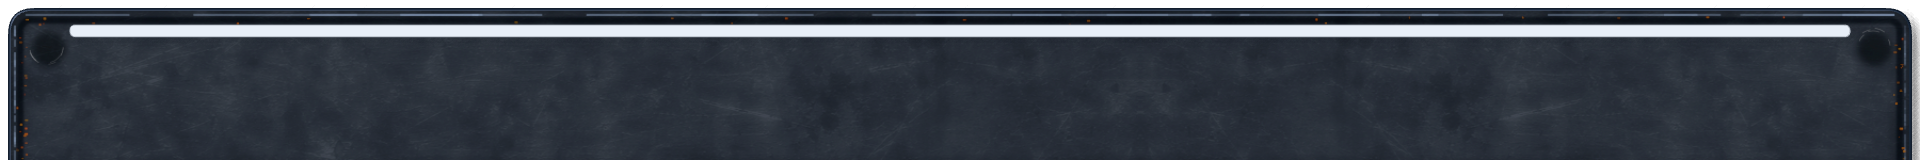
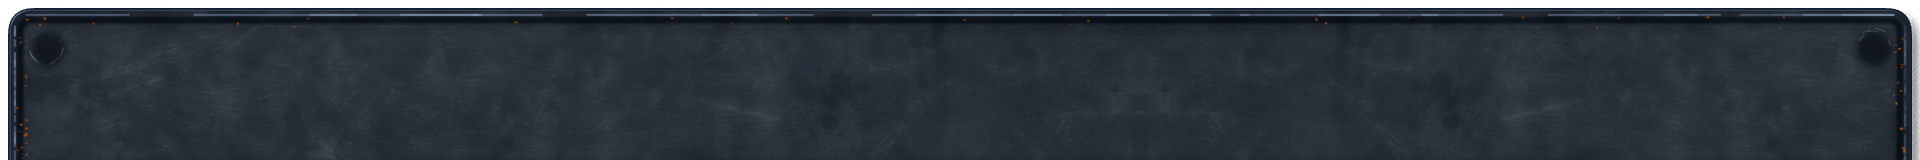
End Turn: stylised silver button drawn in code, gearing on the roller, no rail
The button is drawn by the dock: a flat silver face, four bevel facets lit from the upper left, the
shadow it casts into its black frame, and a dark arrow with a lit edge. It sinks with a narrower bevel
while held and dims while a turn resolves. A cog on the roller's end meshes with a pinion; both turn
three teeth each time the phase rolls over. The desk plate loses its chrome rail (the bottom bar
shares the plate), and the silver button renders are removed.

Changed region(s): [[0.0312, 0.125, 0.9688, 0.25]]

diff --git a/price-of-everything-0.1/tools/button_mockup/cluster.html b/price-of-everything-0.1/tools/button_mockup/cluster.html
@@ -1485,22 +1485,19 @@ function darkMetalPlate() {
 
 /**
  * The bottom bar as a factory control desk: a plate of the top bar's weathered navy steel the bar's full width,
- * rendered at its size so its wear never stretches, with a polished steel rail along its far edge and a screw
+ * rendered at its size so its wear never stretches, with a screw
  * at each end; and the gunmetal collar each round push button sits in, a knurled ring round a dark recess.
  * The plate runs off the bottom of the screen, so only its top corners are rounded on screen.
  */
-const DESK = { W: 1800, H: 150, M: 10, rail: 10, railInset: 26, r: 22 };
+const DESK = { W: 1800, H: 150, M: 10, r: 22 };
 function deskPlate() {
-  const { W, H, M, rail, railInset, r } = DESK, g = new THREE.Group(), pw = W - 2 * M, ph = H - M + 30;
+  const { W, H, M, r } = DESK, g = new THREE.Group(), pw = W - 2 * M, ph = H - M + 30;
   const screws = [{ x: 34, y: 34 }, { x: pw - 34, y: 34 }];
   const face = { icons: [], buttons: [], screws, base: NAVY_STEEL_CANVAS, rub: '120,136,160' };
   const steelSide = new THREE.MeshStandardMaterial({ color: 0x3a4250, metalness: 1, roughness: 0.45, envMap: studioEnv, envMapIntensity: 0.8 });
   const plate = new THREE.Mesh(extrude(rrShape(pw, ph, r), 5, 3, 2.4, 5), [plateMaterial(pw, ph, face), steelSide]);
   plate.castShadow = plate.receiveShadow = true; plate.position.set(W / 2, 0, M + ph / 2); g.add(plate);
   for (const sc of screws) { const m = screw(5); m.position.set(M + sc.x, 8.2, M + sc.y); g.add(m); }
-  const chrome = new THREE.MeshStandardMaterial({ color: 0xb8bec6, map: noiseTexture(8, 24, 60), metalness: 1, roughness: 0.18, envMap: studioEnv, envMapIntensity: 1.05 });
-  const railMesh = new THREE.Mesh(extrude(rrShape(pw - 2 * railInset - 60, rail, rail / 2), 3, 1.4, 1.1, 4), chrome);
-  railMesh.castShadow = railMesh.receiveShadow = true; railMesh.position.set(W / 2, 8.2, M + 14 + rail / 2); g.add(railMesh);
   g.add(shadowCatcher(W, H, W / 2, H / 2, 0.05, 0.55));
   return g;
 }
@@ -1519,36 +1516,6 @@ function deskBezel() {
   const recess = new THREE.Mesh(new THREE.CircleGeometry(rIn, 64).rotateX(-Math.PI / 2), MAT.gap);
   recess.position.set(c, 0.4, c); recess.receiveShadow = true; g.add(recess);
   g.add(shadowCatcher(S, S, c, c, 0.05, 0.6));
-  return g;
-}
-
-// End Turn on the control desk: a silver push button with pronounced chamfered bevels and a raised arrow
-// pointing right, sunk in a black frame. "up" at rest, "pressed" sunk while held, "dim" while a turn resolves.
-// The game engraves END TURN under it and rolls the phase beside it (end_turn_dock.gd).
-const ESILVER = { W: 144, H: 76, M: 8, r: 7 };
-function endTurnSilver(state) {
-  const { W, H, M, r } = ESILVER, g = new THREE.Group(), fw = W - 2 * M - 12, fh = H - 2 * M - 12;
-  const black = new THREE.MeshStandardMaterial({ color: 0x121316, map: noiseTexture(6, 10, 80), metalness: 0.35, roughness: 0.42, envMap: studioEnv, envMapIntensity: 0.5 });
-  const ring = rrShape(fw + 12, fh + 12, r + 5); ring.holes.push(rr(new THREE.Path(), fw + 2, fh + 2, r + 1));
-  const frame = new THREE.Mesh(extrude(ring, 7, 1.6, 1.3, 2), black); frame.position.set(W / 2, 0, H / 2);
-  frame.castShadow = frame.receiveShadow = true; g.add(frame);
-  const well = new THREE.Mesh(new THREE.PlaneGeometry(fw + 2, fh + 2).rotateX(-Math.PI / 2), MAT.gap); well.position.set(W / 2, 0.3, H / 2); g.add(well);
-  const dim = state === 'dim', held = state === 'pressed', tone = dim ? 0x6f757d : (held ? 0x8f959d : 0xa4aab2);
-  const silver = new THREE.MeshStandardMaterial({ color: tone, map: noiseTexture(14, 50, 50), metalness: 1, roughness: 0.34, envMap: studioEnv, envMapIntensity: dim ? 0.45 : 0.8 });
-  const sunk = held ? 3 : 0;
-  // The chamfer: a wide, flat bevel (one segment) so the button's edge reads as cut facets, not a round.
-  const cap = new THREE.Mesh(extrude(rrShape(fw - 16, fh - 16, r - 3), 3, 7, 7, 1), silver);
-  cap.position.set(W / 2, 1 - sunk, H / 2); cap.castShadow = cap.receiveShadow = true; g.add(cap);
-  // The arrow, pointing right, raised from the face in black enamel and chamfered the same way.
-  const aw = fh * 0.66, ah = fh * 0.5, shaft = ah * 0.38, head = aw * 0.44;
-  const arrow = new THREE.Shape();
-  arrow.moveTo(-aw / 2, -shaft / 2); arrow.lineTo(aw / 2 - head, -shaft / 2); arrow.lineTo(aw / 2 - head, -ah / 2);
-  arrow.lineTo(aw / 2, 0); arrow.lineTo(aw / 2 - head, ah / 2); arrow.lineTo(aw / 2 - head, shaft / 2);
-  arrow.lineTo(-aw / 2, shaft / 2); arrow.closePath();
-  const enamel = new THREE.MeshPhysicalMaterial({ color: dim ? 0x1d2026 : 0x14171c, roughness: 0.3, clearcoat: 0.7, clearcoatRoughness: 0.2, envMap: studioEnv, envMapIntensity: 0.6 });
-  const arrowMesh = new THREE.Mesh(extrude(arrow, 1, 1, 1, 1), enamel);
-  arrowMesh.position.set(W / 2, 1 - sunk + 3 + 14, H / 2); arrowMesh.castShadow = true; g.add(arrowMesh);
-  g.add(shadowCatcher(W, H, W / 2, H / 2, 0.05, 0.55));
   return g;
 }
 
@@ -2366,7 +2333,7 @@ async function exportLayers() {
   // layout.json; the other layers are left as they are. Sets: block, footer, backing, section, keys,
   // lamp, scroll, seam, title, enamel, pin, cable, counter, sheet, plastic, door, heading, module,
   // toggle, ldoor, modkey, sheetw, darkplate, modicon, screen, econ, diagicon, emblem, bar, barconcrete, barpipes, baricon, barsheet,
-  // missionslot, missionboard, darkmetal, desk, endsilver, tiledoor, tilekey, peoplecab, peopleroom, peopleclock, peopleboard, peoplelocker, peopleknob, peoplesheet, peopleguard, marketparts, briefback, briefclip, briefwin. Studies, not game layers: tilestudy, constructoffice, constructlot, marketstudy, resourcesstudy, peoplestudy, briefingstudy.
+  // missionslot, missionboard, darkmetal, desk, tiledoor, tilekey, peoplecab, peopleroom, peopleclock, peopleboard, peoplelocker, peopleknob, peoplesheet, peopleguard, marketparts, briefback, briefclip, briefwin. Studies, not game layers: tilestudy, constructoffice, constructlot, marketstudy, resourcesstudy, peoplestudy, briefingstudy.
   const only = new URLSearchParams(location.search).get('only');
   const want = (set) => !only || only.split(',').includes(set);
   const layout = only ? await fetch('/layers/layout.json').then((r) => (r.ok ? r.json() : {})) : {};
@@ -7500,13 +7467,6 @@ async function exportLayers() {
     await post('desk_bezel', stage([0, 0, DBEZEL.S, DBEZEL.S], [deskBezel()]).grab());
     layout.desk_plate = { size: [DESK.W, DESK.H], margin: DESK.M };
     layout.desk_bezel = { size: [DBEZEL.S, DBEZEL.S], ring: [DBEZEL.rIn, DBEZEL.rOut] };
-  });
-
-  // --- the desk's End Turn push button, lit, pressed and unlit.
-  // --- End Turn on the desk: the silver arrow button at rest, held, and while a turn resolves.
-  if (want('endsilver')) await withSeed(486, async () => {
-    for (const st of ['up', 'pressed', 'dim']) await post(`end_turn_silver_${st}`, stage([0, 0, ESILVER.W, ESILVER.H], [endTurnSilver(st)]).grab());
-    layout.end_turn_silver = { size: [ESILVER.W, ESILVER.H], margin: ESILVER.M };
   });
 
   // --- Labour and Wages' factory doors, the window dark and lit.
